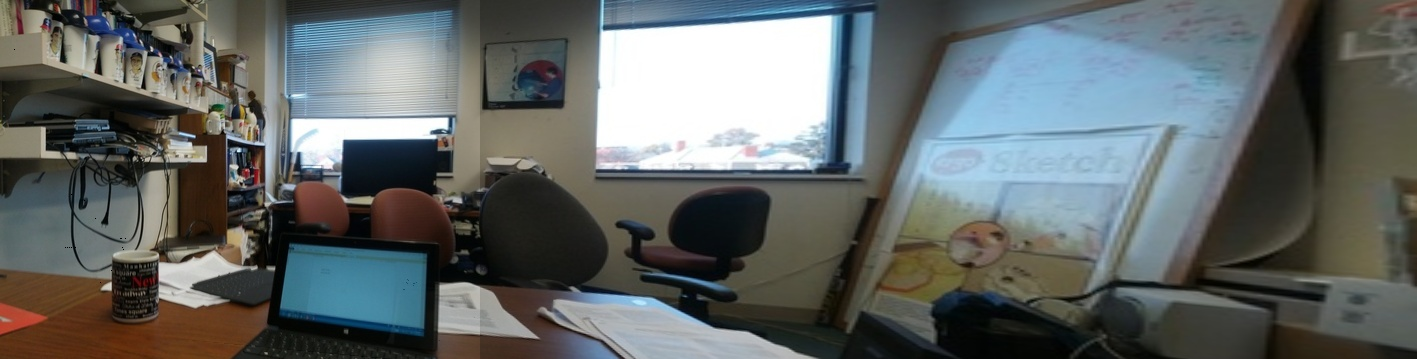
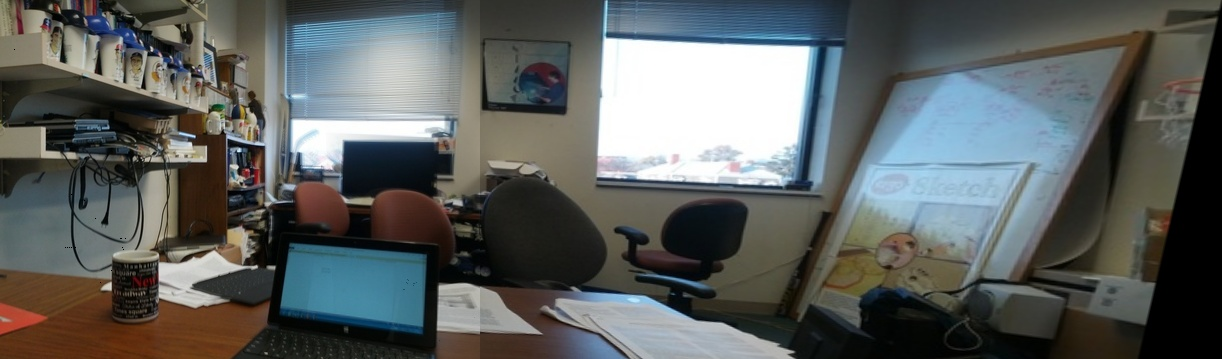
自己实现的warpPerspective函数

diff --git a/Code/main.py b/Code/main.py
@@ -6,6 +6,9 @@ from matplotlib import pyplot as plt
 import random
 import time
 import my_RANSAC
+import my_Warp
+
+
 def display(img):
     plt.imshow(cv2.cvtColor(np.float32(img / 255), cv2.COLOR_BGR2RGB))
     plt.title("Splicing")
@@ -22,9 +25,21 @@ def same_size(A, B):
     h1, w1, _ = A.shape
     h2, w2, _ = B.shape
     if w1 > w2:
-        B = cv2.copyMakeBorder(B, 0, 0, 0, w1 - w2, cv2.BORDER_CONSTANT, value=(0, 0, 0))
+        B = cv2.copyMakeBorder(B,
+                               0,
+                               0,
+                               0,
+                               w1 - w2,
+                               cv2.BORDER_CONSTANT,
+                               value=(0, 0, 0))
     else:
-        A = cv2.copyMakeBorder(A, 0, 0, w2 - w1, 0, cv2.BORDER_CONSTANT, value=(0, 0, 0))
+        A = cv2.copyMakeBorder(A,
+                               0,
+                               0,
+                               w2 - w1,
+                               0,
+                               cv2.BORDER_CONSTANT,
+                               value=(0, 0, 0))
     return (A, B)
 
 
@@ -49,6 +64,7 @@ def cylindrical_projection(img, f):
             else:
                 blank[y, x, :] = img[point_y, point_x, :]
     return blank
+
 
 # 去除黑色边框
 def remove_the_blackborder(img):
@@ -104,8 +120,9 @@ def Warp(A, B):
                        singlePointColor=(255, 0, 0),
                        matchesMask=matchesMask,
                        flags=0)
-    img3 = cv2.drawMatchesKnn(img1gray, kp1, img2gray, kp2, matches, None, **draw_params)
-    cv2.imshow("FLANN",img3)
+    img3 = cv2.drawMatchesKnn(img1gray, kp1, img2gray, kp2, matches, None,
+                              **draw_params)
+    cv2.imshow("FLANN", img3)
     #rows, cols = srcImg.shape[:2]
     #寻找单应性矩阵
     MIN_MATCH_COUNT = 20
@@ -115,8 +132,11 @@ def Warp(A, B):
     H = my_RANSAC.RANSAC(src_pts, dst_pts)
     print("单应性矩阵H为：")
     print(H)
-    warpImg = cv2.warpPerspective(dstImg, np.linalg.inv(H), (dstImg.shape[1] + srcImg.shape[1], dstImg.shape[0]))
-
+    #todo: implement this function manually.
+    # warpImg = cv2.warpPerspective(dstImg, np.linalg.inv(H), (dstImg.shape[1] + srcImg.shape[1], dstImg.shape[0]))
+    warpImg = my_Warp.myWarpPerspective(
+        dstImg, np.linalg.inv(H),
+        (dstImg.shape[0], dstImg.shape[1] + srcImg.shape[1]))
     rows, cols = srcImg.shape[:2]
 
     display(warpImg)
@@ -141,7 +161,9 @@ def Warp(A, B):
                 dstImgLen = float(abs(col - left))
                 srcImgLen = float(abs(col - right))
                 alpha = dstImgLen / (dstImgLen + srcImgLen)
-                res[row, col] = np.clip(srcImg[row, col] * (1 - alpha) + warpImg[row, col] * alpha, 0, 255)
+                res[row, col] = np.clip(
+                    srcImg[row, col] * (1 - alpha) + warpImg[row, col] * alpha,
+                    0, 255)
 
     warpImg[0:srcImg.shape[0], 0:srcImg.shape[1]] = res
     warpImg = remove_the_blackborder(warpImg)

diff --git a/Code/my_Warp.py b/Code/my_Warp.py
@@ -1,0 +1,49 @@
+import numpy as np
+import random
+from matplotlib import pyplot as plt
+import time
+import typing
+
+
+def myWarpPerspective(srcMat: np.ndarray, homoMat: np.ndarray,
+                      dstSize: typing.Tuple[int, int]):
+    """
+    my implementation of cv2.warpPerspective Function
+    :param srcMat: source image matrix.
+    :param homoMat: homography matrix.
+    :param dstSize: target size of the output matrix. **Attention: the size of the matrix is the transpose of the image size.**
+    :returm dstMat: transformed image matrix.
+    """
+    srcShape = srcMat.shape
+    # if len(srcShape) != 2:
+    #     raise Exception("Input Image is not a gray image.")
+    srcH, srcW = srcShape[0], srcShape[1]
+    dstH, dstW = dstSize[0], dstSize[1]
+    dstShape = np.array(srcShape)
+    dstShape[0], dstShape[1] = dstH, dstW
+    if dstH < srcH or dstW < srcW:  # if the output image size is smaller than the input image size, then return original
+        return srcMat
+    dst = np.zeros(dstShape, np.uint8)  #创建一张空白的图，尺寸和目标尺寸相同
+    invHomoMat = np.linalg.inv(homoMat)
+    # Using matrix multiplication to move pixels from srcMat to dst
+    # no cv2.warpPerspective is allowed here.
+    for y in range(dstSize[0]):
+        for x in range(dstSize[1]):
+            #从dst向src进行定位
+            srcPixel = np.dot(invHomoMat, np.array([x, y, 1]))
+            srcX, srcY = srcPixel[0] / srcPixel[2], srcPixel[1] / srcPixel[2]
+            if srcX < 0 or srcX >= srcW or srcY < 0 or srcY >= srcH:
+                continue
+            #双线性插值
+            x1, y1 = int(srcX), int(srcY)
+            x2, y2 = x1 + 1, y1 + 1
+            fx, fy = srcX - x1, srcY - y1
+            p1 = srcMat[y1, x1]
+            p2 = srcMat[y2, x1] if y2 < srcH else p1
+            p3 = srcMat[y1, x2] if x2 < srcW else p1
+            p4 = srcMat[
+                y2,
+                x2] if y2 < srcH and x2 < srcW else p2 if y2 < srcH else p3 if x2 < srcW else p1
+            dst[y, x] = (1 - fy) * ((1 - fx) * p1 + fx * p3) + fy * (
+                (1 - fx) * p2 + fx * p4)
+    return dst
